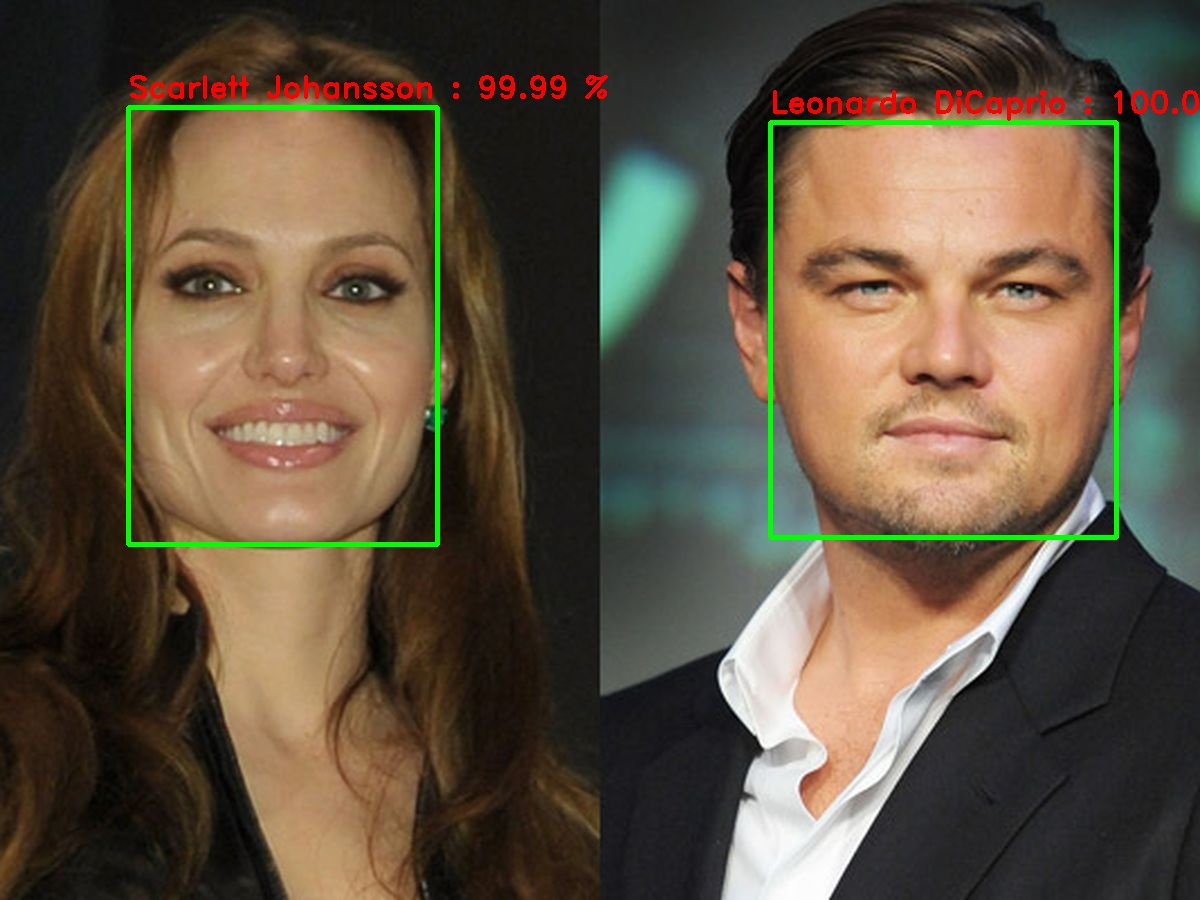
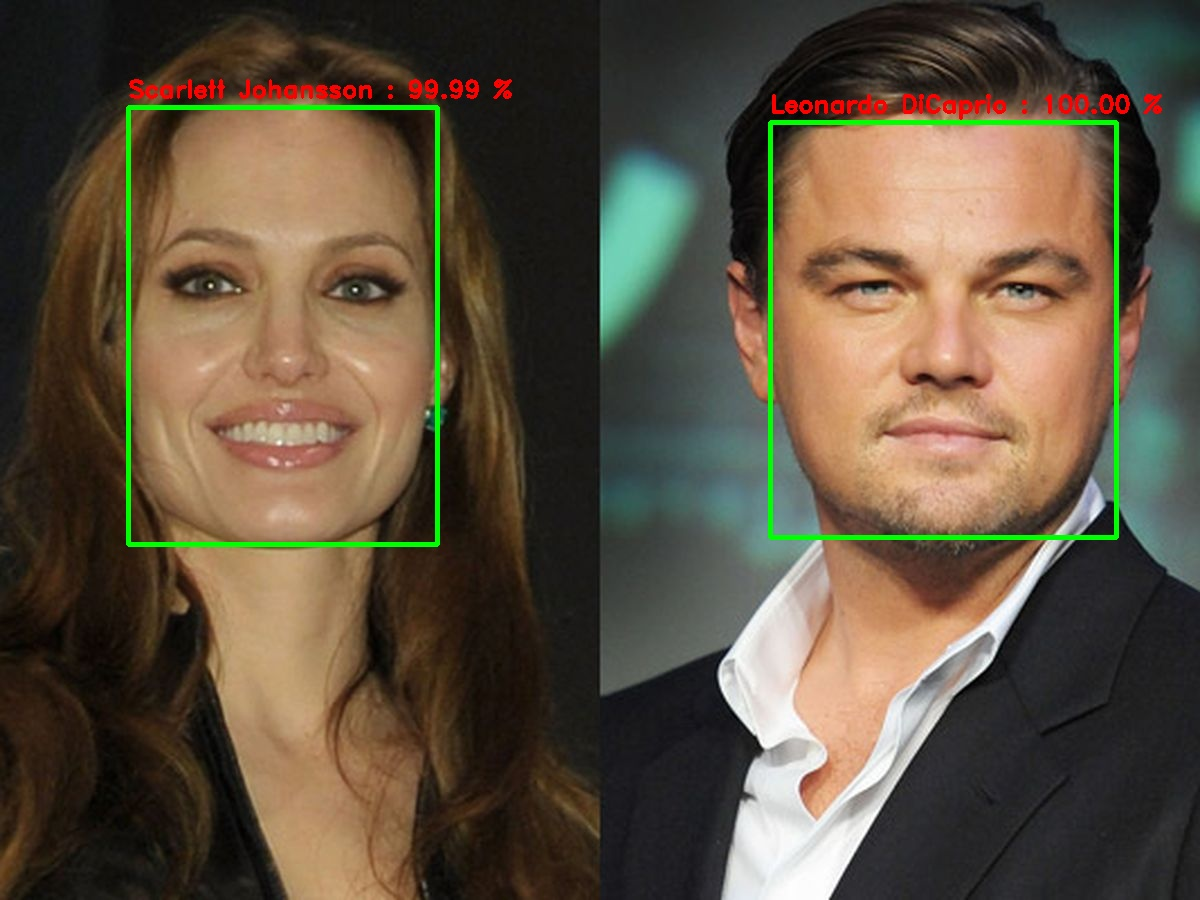
Project Developement Completed.

Changed region(s): [[0.0925, 0.0622, 0.5242, 0.1244], [0.6475, 0.0933, 1.0, 0.1556]]

diff --git a/face_recognition_project/templates/index.html b/face_recognition_project/templates/index.html
@@ -5,71 +5,110 @@
     <meta charset="UTF-8">
     <meta name="viewport" content="width=device-width, initial-scale=1.0">
     <title>Face Recognition</title>
+    <link href="https://cdn.jsdelivr.net/npm/bootstrap@5.3.0/dist/css/bootstrap.min.css" rel="stylesheet" integrity="sha384-9ndCyUaIbzAi2FUVXJi0CjmCapSmO7SnpJef0486qhLnuZ2cdeRhO02iuK6FUUVM" crossorigin="anonymous">
+    <script src="https://cdn.jsdelivr.net/npm/bootstrap@5.3.0/dist/js/bootstrap.bundle.min.js" integrity="sha384-geWF76RCwLtnZ8qwWowPQNguL3RmwHVBC9FhGdlKrxdiJJigb/j/68SIy3Te4Bkz" crossorigin="anonymous"></script>
 </head>
 <body>
-    <h1>Welcome to Face Recognition</h1>
 
-    <form action="#" method="POST" enctype="multipart/form-data">
+    <!--Navbar-->
+    <nav class="navbar navbar-dark" style="background-color: #165b90">
+        <div class="container">
+            <a href="/" class="navbar-brand">
+                <img src="{% static 'logo.png' %}" alt="Logo Image">
+                    FACE IDENTIFY
+            </a>
+        </div>
+    </nav>
 
-    {% csrf_token %}
-    {{ form.as_table }}
+    <!--Body-->
 
-    {% if upload %}
-    
-    <table>
-        <!--Number of Face-->
-        <tr>
-            <td>Face Number</td>
-            {% for face_number in results.count %}
-                <td>{{ face_number }}</td>
-            {% endfor %}
-        </tr>
+    <div class="container">
 
-        <!--Detected Face Image-->
-        <tr>
-            <td>Detected Face Image</td>
-            {% for face_number in results.count %}
-                <td><img src="media/ml_output/face_cropped_image_{{ face_number}}.jpg" alt="Cropped Image "></td>
-            {% endfor %}
-        </tr>
+        <br>
+        <h3 class="display-11" align="center">Upload Image to Recognize Person</h3>
+        <br>
 
-        <!--Confidence-->
-        <tr>
-            <td>Face Detection Confidence</td>
-            {% for confidence in results.face_detect_confidence %}
-                <td>{{ confidence }}</td>
-            {% endfor %}
-        </tr>
+        <form action="#" method="POST" enctype="multipart/form-data">
 
-        <!--Face Name-->
-        <tr>
-            <td>Face Name</td>
-            {% for face_name in results.face_name %}
-                <td>{{ face_name }}</td>
-            {% endfor %}
-        </tr>
+            {% csrf_token %}
 
-        <!--Face Name Score-->
-        <tr>
-            <td>Name Score</td>
-            {% for name_score in results.face_name_score %}
-                <td>{{ name_score }}</td>
-            {% endfor %}
-        </tr>
-    </table>
+            <!-- {{ form.as_table }} -->
+            <div class="input-group">
+                <label for="{{ form.image.id_for_label }}"></label>{{ form.image }}
+                <input type="submit" class="btn btn-outline-secondary" value="Display Face">
+            </div>
 
-    <div>
-        <img src="media/ml_output/processed.jpg" alt="Processed Image">
+        
+            {% if upload %}
+
+            
+            <hr>
+            <div class="row">
+
+                <div class="col">
+                        <img src="media/ml_output/processed.jpg" alt="Processed Image" class="img-fluid">
+                </div>
+
+                <div class="col">
+                    <table class="table table-hover">
+                        <!--Number of Face-->
+                        <tr>
+                            <th class="table-secondary">Face Number</th>
+                            {% for face_number in results.count %}
+                                <td>{{ face_number }}</td>
+                            {% endfor %}
+                        </tr>
+                
+                        <!--Detected Face Image-->
+                        <tr>
+                            <th class="table-secondary">Detected Face Image</th>
+                            {% for face_number in results.count %}
+                                <td><img src="media/ml_output/face_cropped_image_{{ face_number}}.jpg" alt="Cropped Image" class="img-fluid"></td>
+                            {% endfor %}
+                        </tr>
+                
+                        <!--Confidence-->
+                        <tr>
+                            <th class="table-secondary">Face Detection Confidence</th>
+                            {% for confidence in results.face_detect_confidence %}
+                                <td>{{ confidence }}</td>
+                            {% endfor %}
+                        </tr>
+                
+                        <!--Face Name-->
+                        <tr>
+                            <th class="table-secondary">Face Name</th>
+                            {% for face_name in results.face_name %}
+                                <td>{{ face_name }}</td>
+                            {% endfor %}
+                        </tr>
+                
+                        <!--Face Name Score-->
+                        <tr>
+                            <th class="table-secondary">Name Score</th>
+                            {% for name_score in results.face_name_score %}
+                                <td>{{ name_score }}</td>
+                            {% endfor %}
+                        </tr>
+                    </table>
+                </div>
+
+            </div>
+            
+            {% endif %}
+            <hr>
+            <div class="container">
+                <footer>
+                    <a href="clickonova.com">Clickonova</a>
+                </footer>
+            </div>
+        </form>
     </div>
-    
-    {% endif %}
 
+     
 
-    <input type="submit" value="Upload">
-    </form> 
-
-    {% comment %} <p>Image recommended method below-</p>
-    <img src="{% static 'logo.png' %}" alt="Logo Image"> {% endcomment %}
+    <!-- <p>Display Image Django method below-</p>
+    <img src="{% static 'logo.png' %}" alt="Logo Image"> -->
     
 </body>
 </html>

diff --git a/face_recognition_project/app/machine_learning.py b/face_recognition_project/app/machine_learning.py
@@ -62,7 +62,7 @@ def pipeline_model(path):
                 cv2.rectangle(image, (startx, starty), (endx, endy), (0, 255, 0), 3)
                 # put text
                 text = "{} : {:.2f} %".format(face_name, confidence*100)
-                cv2.putText(image, text, (startx, starty-10), cv2.FONT_HERSHEY_DUPLEX, 1, (0, 0, 255), 2)
+                cv2.putText(image, text, (startx, starty-10), cv2.FONT_HERSHEY_DUPLEX, 0.8, (0, 0, 255), 2)
                 
                 # append to machine learning result dict
                 count += 1

diff --git a/face_recognition_project/app/forms.py b/face_recognition_project/app/forms.py
@@ -6,3 +6,7 @@ class FaceRecognitionForm(forms.ModelForm):
     class Meta:
         model = FaceRecognition
         fields = ['image']
+        
+    def __init__(self, *args, **kwargs):
+        super().__init__(*args, **kwargs)
+        self.fields['image'].widget.attrs.update({'class' : 'form-control'})
